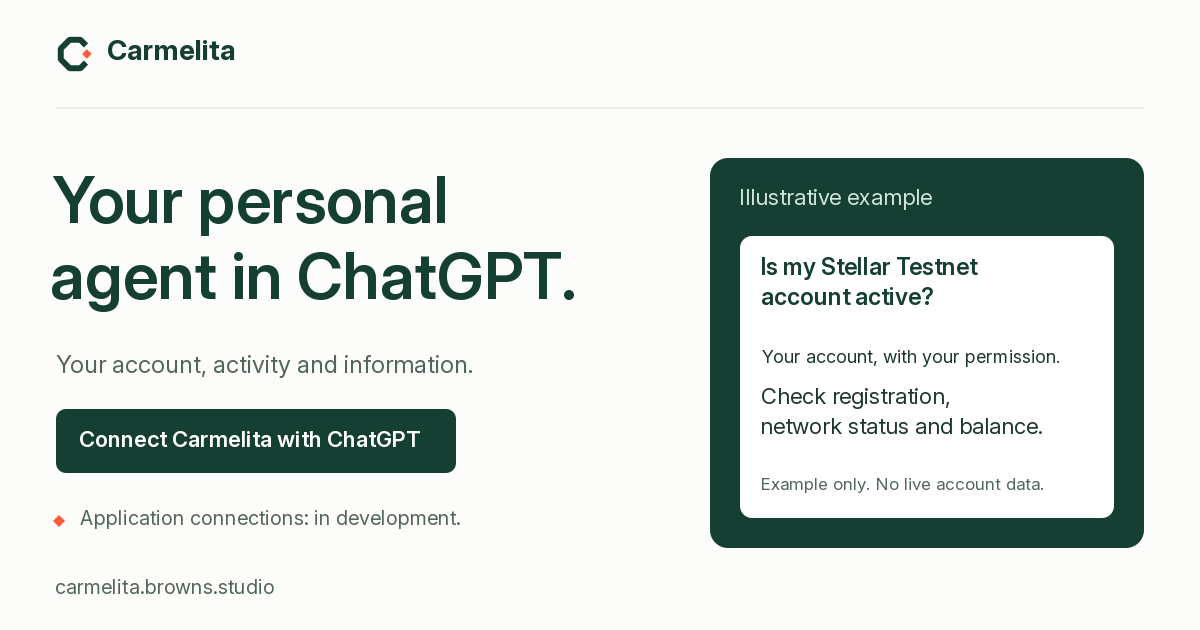
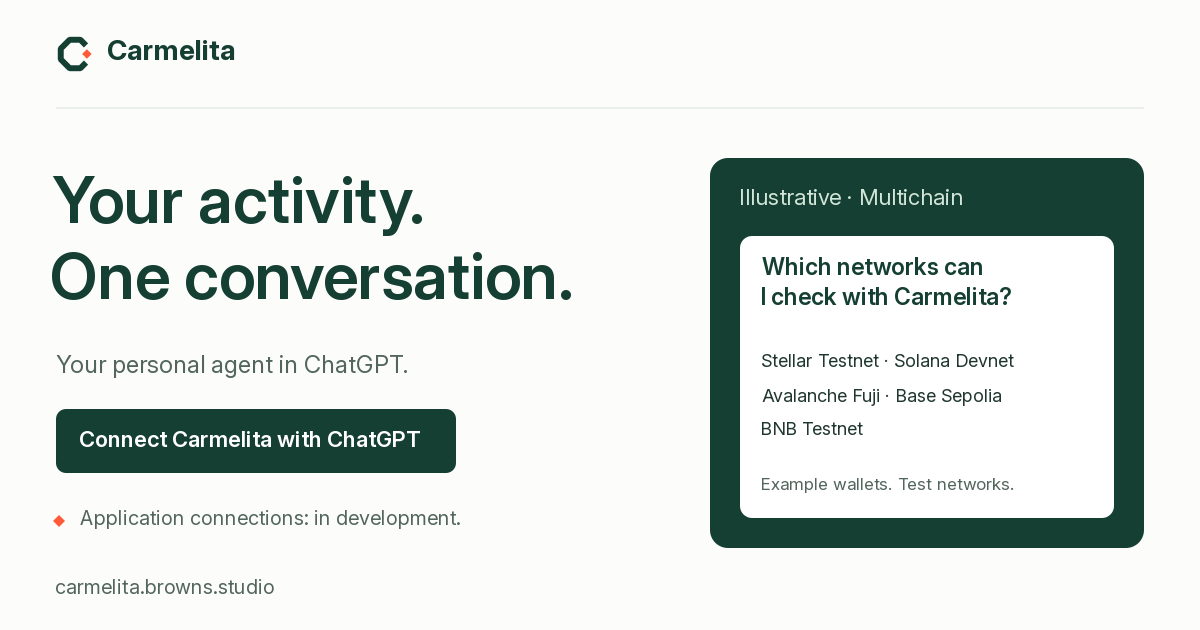
Broaden landing opening to multichain account activity

diff --git a/app/home-experience.tsx b/app/home-experience.tsx
@@ -9,14 +9,15 @@ import styles from "./home-experience.module.css";
 const copy = {
   es: {
     home: "Inicio de Carmelita", footerNav: "Enlaces de Carmelita", skip: "Ir al contenido", guide: "Guía de conexión", developers: "Desarrolladores",
-    title: "Carmelita,", titleEnd: "tu agente personal en ChatGPT.",
-    description: "Consulta tu información y datos de mercado desde una conversación. Conecta tu cuenta y elige los permisos que compartes.",
+    title: "Carmelita,", titleEnd: "tu actividad en una conversación.",
+    description: "Tu agente personal en ChatGPT. Consulta tus cuentas onchain, actividad reciente en Carmelita y datos de mercado, con los permisos que tú eliges.",
     connect: "Conectar Carmelita con ChatGPT", recommended: "Recomendado", signIn: "Iniciar sesión en Carmelita",
-    scope: "Stellar Testnet y datos de mercado con fuentes identificadas.",
-    example: "Ejemplo ilustrativo · Stellar Testnet", conversationTitle: "En ChatGPT",
-    question: "¿Qué puedo consultar de mi cuenta Stellar?", answer: "Tu dirección, la activación en la red y tu saldo XLM.",
-    explorerHint: "También puedes abrir el explorador de Stellar Testnet.",
-    preview: "Tus datos aparecen después de autorizar. Los fondos de este ejemplo son de prueba.",
+    scope: "Multichain: cinco redes Testnet / Devnet y datos de mercado.",
+    example: "Ejemplo ilustrativo · Multichain", stellarExample: "Ejemplo ilustrativo · Stellar Testnet", conversationTitle: "En ChatGPT",
+    question: "¿Qué redes de prueba están vinculadas a mi cuenta Carmelita?", answer: "Puedo consultar tus wallets registradas en estas cinco redes de prueba, con cada dirección y su explorador.",
+    networksLabel: "Redes del ejemplo",
+    explorerHint: "Una identidad, distintas redes. Tú decides qué información compartes.",
+    preview: "Ejemplo ilustrativo. Tus datos aparecen después de autorizar. Las wallets de este recorrido usan redes de prueba.",
     benefitsTitle: "Un agente vinculado a tu identidad", usageGuide: "Guía de uso",
     benefits: [
       ["Una cuenta tuya", "Accede a la información vinculada a la identidad que autorizas."],
@@ -40,7 +41,7 @@ const copy = {
     steps: [
       ["Abre la guía", "Copia la URL de Carmelita y abre la sección de conectores de ChatGPT."],
       ["Añade Carmelita y autoriza", "Crea tu cuenta Carmelita o inicia sesión durante la autorización. Revisa los permisos antes de aceptar."],
-      ["Empieza a preguntar", "Habilita Carmelita en una conversación. Puedes empezar con: «¿Está activa mi cuenta Stellar Testnet?»."],
+      ["Empieza a preguntar", "Habilita Carmelita en una conversación. Puedes empezar con: «¿Qué redes de prueba están vinculadas a mi cuenta Carmelita?»."],
     ],
     stepsLink: "Abrir la guía paso a paso",
     faqTitle: "Preguntas frecuentes.", faqIntro: "Para conectar tu cuenta o preparar una integración.",
@@ -60,7 +61,7 @@ const copy = {
       ["¿Necesito crear una cuenta Carmelita antes?", "Puedes crear tu cuenta Carmelita o iniciar sesión durante la autorización desde ChatGPT. Si ya tienes cuenta, utiliza la misma identidad para conservar tus wallets."],
       ["¿Funciona con cualquier cuenta de ChatGPT?", "Tu cuenta debe permitir conectores MCP personalizados. La disponibilidad depende de tu cuenta y de las políticas de tu espacio de trabajo. Crear una cuenta ChatGPT no garantiza ese permiso; la guía explica cómo comprobarlo."],
       ["¿Mis wallets se preparan al conectar?", "La autorización prepara tus wallets para las cinco redes de prueba. Stellar intenta activarse automáticamente con XLM Testnet y sólo aparece activa cuando la red lo confirma. Si la red no responde, la activación puede quedar pendiente. Las otras redes no se financian automáticamente."],
-      ["¿Qué redes puedo consultar?", "Empezamos por Stellar Testnet. También puedes consultar tus wallets en Solana Devnet, Avalanche Fuji, Base Sepolia y BNB Testnet. Las tres redes EVM comparten una dirección; cada red mantiene su propio saldo y actividad."],
+      ["¿Qué redes puedo consultar?", "Puedes consultar tus wallets en Stellar Testnet, Solana Devnet, Avalanche Fuji, Base Sepolia y BNB Testnet. Las tres redes EVM comparten una dirección; cada red mantiene su propio saldo y actividad."],
       ["¿Son fondos reales o de prueba?", "Las wallets de este recorrido usan Testnet o Devnet. Sus fondos sirven para pruebas y no se convierten en fondos Mainnet. Los datos de mercado se consultan por separado y no dan valor real a los fondos Testnet. XLM es el activo nativo de Stellar y no necesita una trustline."],
     ],
     development: "Nuestra visión · En desarrollo", visionTitle: "Estamos conectando más aplicaciones a tu agente.",
@@ -72,14 +73,15 @@ const copy = {
   },
   en: {
     home: "Carmelita home", footerNav: "Carmelita links", skip: "Skip to content", guide: "Connection guide", developers: "Developers",
-    title: "Carmelita,", titleEnd: "your personal agent in ChatGPT.",
-    description: "Check your information and market data from a conversation. Connect your account and choose the permissions you share.",
+    title: "Carmelita,", titleEnd: "your activity in one conversation.",
+    description: "Your personal agent in ChatGPT. Check your onchain accounts, recent Carmelita activity and market data, with permissions you control.",
     connect: "Connect Carmelita with ChatGPT", recommended: "Recommended", signIn: "Sign in to Carmelita",
-    scope: "Stellar Testnet and market data with identified sources.",
-    example: "Illustrative example · Stellar Testnet", conversationTitle: "In ChatGPT",
-    question: "What can I check about my Stellar account?", answer: "Your address, activation on the network and your XLM balance.",
-    explorerHint: "You can also open the Stellar Testnet explorer.",
-    preview: "Your data appears after authorization. Funds in this example are test funds.",
+    scope: "Multichain: five Testnet / Devnet networks and market data.",
+    example: "Illustrative example · Multichain", stellarExample: "Illustrative example · Stellar Testnet", conversationTitle: "In ChatGPT",
+    question: "Which test networks are linked to my Carmelita account?", answer: "I can check your registered wallets on these five test networks, with each address and explorer.",
+    networksLabel: "Networks in this example",
+    explorerHint: "One identity, different networks. You decide what information you share.",
+    preview: "Illustrative example. Your data appears after authorization. Wallets in this flow use test networks.",
     benefitsTitle: "An agent linked to your identity", usageGuide: "User guide",
     benefits: [
       ["Your own account", "Access information linked to the identity you authorize."],
@@ -103,7 +105,7 @@ const copy = {
     steps: [
       ["Open the guide", "Copy Carmelita’s URL and open the connectors section in ChatGPT."],
       ["Add Carmelita and authorize", "Create your Carmelita account or sign in during authorization. Review the permissions before accepting."],
-      ["Start asking", "Enable Carmelita in a conversation. You can start with: “Is my Stellar Testnet account active?”."],
+      ["Start asking", "Enable Carmelita in a conversation. You can start with: “Which test networks are linked to my Carmelita account?”."],
     ],
     stepsLink: "Open the step-by-step guide",
     faqTitle: "Frequently asked questions.", faqIntro: "For connecting your account or preparing an integration.",
@@ -123,7 +125,7 @@ const copy = {
       ["Do I need a Carmelita account first?", "You can create your Carmelita account or sign in during authorization from ChatGPT. If you already have an account, use the same identity to keep your wallets."],
       ["Does it work with every ChatGPT account?", "Your account must allow custom MCP connectors. Availability depends on your account and workspace policies. Creating a ChatGPT account does not guarantee this permission; the guide explains how to check."],
       ["Are my wallets prepared when I connect?", "Authorization prepares your wallets for the five test networks. Stellar attempts automatic activation with Testnet XLM and is shown as active only after network confirmation. If the network does not respond, activation may remain pending. The other networks are not automatically funded."],
-      ["Which networks can I ask about?", "Start with Stellar Testnet. You can also check your wallets on Solana Devnet, Avalanche Fuji, Base Sepolia and BNB Testnet. The three EVM networks share an address; each network keeps its own balance and activity."],
+      ["Which networks can I ask about?", "You can check your wallets on Stellar Testnet, Solana Devnet, Avalanche Fuji, Base Sepolia and BNB Testnet. The three EVM networks share an address; each network keeps its own balance and activity."],
       ["Are these real funds or test funds?", "The wallets in this flow use Testnet or Devnet. Their funds are for testing and do not become Mainnet funds. Market data is queried separately and does not give Testnet funds real value. XLM is Stellar’s native asset and does not need a trustline."],
     ],
     development: "Our vision · In development", visionTitle: "We’re connecting more applications to your agent.",
@@ -135,14 +137,15 @@ const copy = {
   },
   pt: {
     home: "Início da Carmelita", footerNav: "Links da Carmelita", skip: "Ir para o conteúdo", guide: "Guia de conexão", developers: "Desenvolvedores",
-    title: "Carmelita,", titleEnd: "seu agente pessoal no ChatGPT.",
-    description: "Consulte suas informações e dados de mercado em uma conversa. Conecte sua conta e escolha as permissões que compartilha.",
+    title: "Carmelita,", titleEnd: "sua atividade em uma conversa.",
+    description: "Seu agente pessoal no ChatGPT. Consulte suas contas onchain, atividade recente na Carmelita e dados de mercado, com as permissões que você escolhe.",
     connect: "Conectar a Carmelita ao ChatGPT", recommended: "Recomendado", signIn: "Entrar na Carmelita",
-    scope: "Stellar Testnet e dados de mercado com fontes identificadas.",
-    example: "Exemplo ilustrativo · Stellar Testnet", conversationTitle: "No ChatGPT",
-    question: "O que posso consultar sobre minha conta Stellar?", answer: "Seu endereço, a ativação na rede e seu saldo XLM.",
-    explorerHint: "Você também pode abrir o explorador da Stellar Testnet.",
-    preview: "Seus dados aparecem após a autorização. Os fundos deste exemplo são de teste.",
+    scope: "Multichain: cinco redes Testnet / Devnet e dados de mercado.",
+    example: "Exemplo ilustrativo · Multichain", stellarExample: "Exemplo ilustrativo · Stellar Testnet", conversationTitle: "No ChatGPT",
+    question: "Quais redes de teste estão vinculadas à minha conta Carmelita?", answer: "Posso consultar suas carteiras registradas nestas cinco redes de teste, com cada endereço e explorador.",
+    networksLabel: "Redes deste exemplo",
+    explorerHint: "Uma identidade, diferentes redes. Você decide quais informações compartilha.",
+    preview: "Exemplo ilustrativo. Seus dados aparecem após a autorização. As carteiras deste fluxo usam redes de teste.",
     benefitsTitle: "Um agente vinculado à sua identidade", usageGuide: "Guia de uso",
     benefits: [
       ["Uma conta sua", "Acesse as informações vinculadas à identidade que autoriza."],
@@ -166,7 +169,7 @@ const copy = {
     steps: [
       ["Abra o guia", "Copie a URL da Carmelita e abra a seção de conectores do ChatGPT."],
       ["Adicione a Carmelita e autorize", "Crie sua conta Carmelita ou entre durante a autorização. Confira as permissões antes de aceitar."],
-      ["Comece a perguntar", "Ative a Carmelita em uma conversa. Você pode começar com: “Minha conta Stellar Testnet está ativa?”."],
+      ["Comece a perguntar", "Ative a Carmelita em uma conversa. Você pode começar com: “Quais redes de teste estão vinculadas à minha conta Carmelita?”."],
     ],
     stepsLink: "Abrir o guia passo a passo",
     faqTitle: "Perguntas frequentes.", faqIntro: "Para conectar sua conta ou preparar uma integração.",
@@ -186,7 +189,7 @@ const copy = {
       ["Preciso criar uma conta Carmelita antes?", "Você pode criar sua conta Carmelita ou entrar durante a autorização pelo ChatGPT. Se já tem uma conta, use a mesma identidade para manter suas carteiras."],
       ["Funciona com qualquer conta do ChatGPT?", "Sua conta precisa permitir conectores MCP personalizados. A disponibilidade depende da conta e das políticas do espaço de trabalho. Criar uma conta ChatGPT não garante essa permissão; o guia explica como verificar."],
       ["Minhas carteiras são preparadas ao conectar?", "A autorização prepara suas carteiras para as cinco redes de teste. A Stellar tenta ativar-se automaticamente com XLM Testnet e só aparece ativa após confirmação da rede. Se a rede não responder, a ativação pode ficar pendente. As demais redes não recebem fundos automaticamente."],
-      ["Quais redes posso consultar?", "Comece pela Stellar Testnet. Você também pode consultar suas carteiras na Solana Devnet, Avalanche Fuji, Base Sepolia e BNB Testnet. As três redes EVM compartilham um endereço; cada rede mantém seu próprio saldo e atividade."],
+      ["Quais redes posso consultar?", "Você pode consultar suas carteiras na Stellar Testnet, Solana Devnet, Avalanche Fuji, Base Sepolia e BNB Testnet. As três redes EVM compartilham um endereço; cada rede mantém seu próprio saldo e atividade."],
       ["São fundos reais ou de teste?", "As carteiras deste fluxo usam Testnet ou Devnet. Seus fundos servem para testes e não se tornam fundos Mainnet. Dados de mercado são consultados separadamente e não dão valor real aos fundos Testnet. XLM é o ativo nativo da Stellar e não precisa de uma trustline."],
     ],
     development: "Nossa visão · Em desenvolvimento", visionTitle: "Estamos conectando mais aplicativos ao seu agente.",
@@ -197,6 +200,8 @@ const copy = {
     closingTitle: "Sua próxima conversa começa aqui.", closingDescription: "Abra o guia, adicione a Carmelita e pergunte sobre sua conta ou dados de mercado.",
   },
 };
+
+const exampleNetworks = ["Stellar Testnet", "Solana Devnet", "Avalanche Fuji", "Base Sepolia", "BNB Testnet"];
 
 function ExplorerIcon() {
   return (
@@ -252,6 +257,9 @@ export default function HomeExperience() {
             <div className={styles.response}>
               <span className={styles.replyIdentity}>Carmelita</span>
               <p className={styles.answer}>{t.answer}</p>
+              <ul className={styles.networks} aria-label={t.networksLabel}>
+                {exampleNetworks.map(network => <li key={network}>{network}</li>)}
+              </ul>
               <p className={styles.explorerHint}><ExplorerIcon /><span>{t.explorerHint}</span></p>
             </div>
             <p className={styles.exampleLabel}>{t.example}</p>
@@ -278,7 +286,7 @@ export default function HomeExperience() {
         <div className={styles.queryPanel}>
           <article className={styles.stellarQuery} aria-labelledby="home-stellar-title">
             <div className={styles.queryPrompt}>
-              <p className={styles.queryCaption}>{t.example}</p>
+              <p className={styles.queryCaption}>{t.stellarExample}</p>
               <h3 id="home-stellar-title">{t.stellarQuestion}</h3>
               <p className={styles.queryDescription}>{t.stellarDescription}</p>
               <Link href="/guide#chatgpt" className={styles.textLink}>{t.usageGuide}</Link>

diff --git a/app/page.tsx b/app/page.tsx
@@ -3,18 +3,18 @@ import HomeExperience from "./home-experience";
 
 export const metadata: Metadata = {
   title: "Carmelita, your personal agent in ChatGPT",
-  description: "Ask Carmelita about your Stellar Testnet account and market data from ChatGPT. Connect your account manually and choose the permissions you share. Further application connections are in development.",
+  description: "Your activity in one conversation with Carmelita, your personal agent in ChatGPT. Check registered multichain test wallets, recent Carmelita activity and market data, with permissions you control. Further application connections are in development.",
   alternates: { canonical: "/" },
   openGraph: {
     title: "Carmelita, your personal agent in ChatGPT",
-    description: "Your personal information and market data, in the same conversation. Start with an illustrative Stellar Testnet query. Your ChatGPT account must allow custom MCP connectors. Further application connections are in development.",
+    description: "Your personal agent for multichain account queries, recent Carmelita activity and market data in ChatGPT. Wallets use five Testnet / Devnet networks. Your account must allow custom MCP connectors. Further application connections are in development.",
     url: "/", siteName: "Carmelita", type: "website",
-    images: [{ url: "/brand/carmelita-landing-social.png", width: 1200, height: 630, alt: "Carmelita, your personal agent in ChatGPT. Illustrative Stellar Testnet query. Application connections are in development." }],
+    images: [{ url: "/brand/carmelita-landing-social.png", width: 1200, height: 630, alt: "Carmelita, your activity in one conversation. Illustrative multichain wallet query across five test networks. Application connections are in development." }],
   },
   twitter: {
     card: "summary_large_image",
     title: "Carmelita, your personal agent in ChatGPT",
-    description: "Ask about your Stellar Testnet account and market data with Carmelita in ChatGPT. Connect manually and authorize your account. Further application connections are in development.",
+    description: "Your activity in one conversation. Check your registered multichain test wallets, recent Carmelita activity and market data through ChatGPT. Connect manually and choose your permissions.",
     images: ["/brand/carmelita-landing-social.png"],
   },
 };

diff --git a/app/layout.tsx b/app/layout.tsx
@@ -11,21 +11,21 @@ export const metadata: Metadata = {
   metadataBase: new URL("https://carmelita.browns.studio"),
   title: "Carmelita, your personal agent in ChatGPT",
   description:
-    "Connect Carmelita with ChatGPT to consult your own Testnet wallets, Stellar Testnet activation and market data. Choose the permissions you share. Application connections are in development.",
+    "Your activity in one conversation. Connect Carmelita with ChatGPT to check your registered multichain test wallets, recent Carmelita activity and market data. Choose your permissions. Further application connections are in development.",
   openGraph: {
     title: "Carmelita, your personal agent in ChatGPT",
     description:
-      "Ask about your Stellar Testnet account and market data in ChatGPT. Connect manually and authorize your account. Application connections are in development.",
+      "Your personal agent for multichain account queries, recent Carmelita activity and market data in ChatGPT. Wallets use Testnet / Devnet. Connect manually and choose your permissions. Further application connections are in development.",
     url: "https://carmelita.browns.studio",
     siteName: "Carmelita",
-    images: [{ url: "/brand/carmelita-landing-social.png", width: 1200, height: 630, alt: "Carmelita, your personal agent in ChatGPT. Illustrative Stellar Testnet query. Application connections are in development." }],
+    images: [{ url: "/brand/carmelita-landing-social.png", width: 1200, height: 630, alt: "Carmelita, your activity in one conversation. Illustrative multichain wallet query across five test networks. Application connections are in development." }],
     type: "website",
   },
   twitter: {
     card: "summary_large_image",
     title: "Carmelita, your personal agent in ChatGPT",
     description:
-      "Ask about your Stellar Testnet account and market data in ChatGPT. Connect manually and authorize your account. Application connections are in development.",
+      "Your activity in one conversation. Check your registered multichain test wallets, recent Carmelita activity and market data through ChatGPT. Connect manually and choose your permissions.",
     images: ["/brand/carmelita-landing-social.png"],
   },
 };

diff --git a/app/home-experience.module.css b/app/home-experience.module.css
@@ -88,6 +88,9 @@
 .response { padding: 0; }
 .replyIdentity { display: block; color: var(--home-green); font-size: 14px; font-weight: 650; line-height: 1.5; }
 .answer { margin: 10px 0 20px; color: var(--home-text); font-size: 18px; font-weight: 450; line-height: 1.65; }
+.networks { display: flex; flex-wrap: wrap; gap: 8px 12px; list-style: none; margin: 0 0 22px; padding: 0; }
+.networks li { display: inline-flex; align-items: center; gap: 8px; padding: 6px 0; color: var(--home-green); font-size: 14px; line-height: 1.5; }
+.networks li::before { content: ""; width: 6px; height: 6px; flex: none; border-radius: 50%; background: var(--home-coral); }
 .explorerHint { display: flex; align-items: flex-start; gap: 10px; margin: 0; padding-top: 18px; border-top: 1px solid var(--home-line); color: var(--home-text); font-size: 15px; line-height: 1.6; }
 .explorerHint svg { flex-shrink: 0; margin-top: 2px; color: var(--home-green); }
 .exampleLabel { margin: 30px 0 0; color: var(--home-muted); font-size: 14px; line-height: 1.6; }
